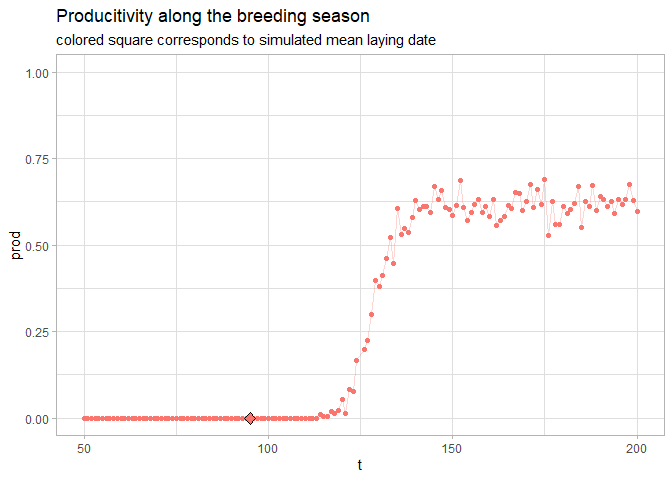
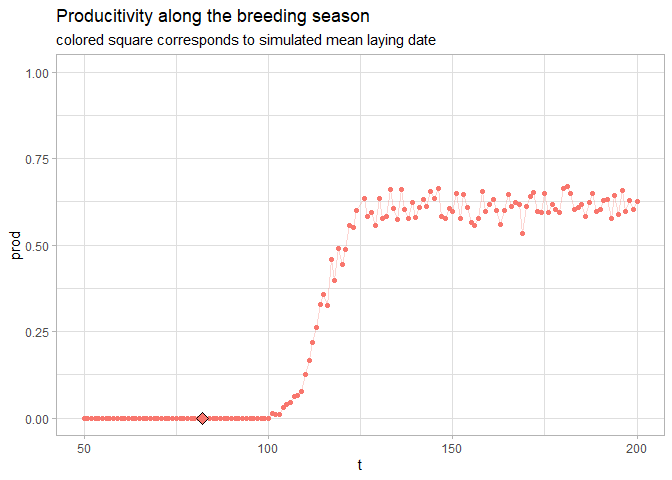
last 6 august

diff --git a/7_optimum.md b/7_optimum.md
@@ -184,15 +184,11 @@ fit_loss <- brm(
   control = list(adapt_delta = 0.9))
 ```
 
-    ## Compiling Stan program...
-
-    ## Start sampling
-
     ## 
     ## SAMPLING FOR MODEL 'anon_model' NOW (CHAIN 1).
     ## Chain 1: 
-    ## Chain 1: Gradient evaluation took 9e-05 seconds
-    ## Chain 1: 1000 transitions using 10 leapfrog steps per transition would take 0.9 seconds.
+    ## Chain 1: Gradient evaluation took 9.5e-05 seconds
+    ## Chain 1: 1000 transitions using 10 leapfrog steps per transition would take 0.95 seconds.
     ## Chain 1: Adjust your expectations accordingly!
     ## Chain 1: 
     ## Chain 1: 
@@ -209,15 +205,15 @@ fit_loss <- brm(
     ## Chain 1: Iteration: 1800 / 2000 [ 90%]  (Sampling)
     ## Chain 1: Iteration: 2000 / 2000 [100%]  (Sampling)
     ## Chain 1: 
-    ## Chain 1:  Elapsed Time: 0.352 seconds (Warm-up)
-    ## Chain 1:                0.142 seconds (Sampling)
-    ## Chain 1:                0.494 seconds (Total)
+    ## Chain 1:  Elapsed Time: 0.346 seconds (Warm-up)
+    ## Chain 1:                0.149 seconds (Sampling)
+    ## Chain 1:                0.495 seconds (Total)
     ## Chain 1: 
     ## 
     ## SAMPLING FOR MODEL 'anon_model' NOW (CHAIN 2).
     ## Chain 2: 
-    ## Chain 2: Gradient evaluation took 2.2e-05 seconds
-    ## Chain 2: 1000 transitions using 10 leapfrog steps per transition would take 0.22 seconds.
+    ## Chain 2: Gradient evaluation took 2.4e-05 seconds
+    ## Chain 2: 1000 transitions using 10 leapfrog steps per transition would take 0.24 seconds.
     ## Chain 2: Adjust your expectations accordingly!
     ## Chain 2: 
     ## Chain 2: 
@@ -234,15 +230,15 @@ fit_loss <- brm(
     ## Chain 2: Iteration: 1800 / 2000 [ 90%]  (Sampling)
     ## Chain 2: Iteration: 2000 / 2000 [100%]  (Sampling)
     ## Chain 2: 
-    ## Chain 2:  Elapsed Time: 0.443 seconds (Warm-up)
-    ## Chain 2:                0.154 seconds (Sampling)
-    ## Chain 2:                0.597 seconds (Total)
+    ## Chain 2:  Elapsed Time: 0.396 seconds (Warm-up)
+    ## Chain 2:                0.151 seconds (Sampling)
+    ## Chain 2:                0.547 seconds (Total)
     ## Chain 2: 
     ## 
     ## SAMPLING FOR MODEL 'anon_model' NOW (CHAIN 3).
     ## Chain 3: 
-    ## Chain 3: Gradient evaluation took 2.7e-05 seconds
-    ## Chain 3: 1000 transitions using 10 leapfrog steps per transition would take 0.27 seconds.
+    ## Chain 3: Gradient evaluation took 2.5e-05 seconds
+    ## Chain 3: 1000 transitions using 10 leapfrog steps per transition would take 0.25 seconds.
     ## Chain 3: Adjust your expectations accordingly!
     ## Chain 3: 
     ## Chain 3: 
@@ -259,15 +255,15 @@ fit_loss <- brm(
     ## Chain 3: Iteration: 1800 / 2000 [ 90%]  (Sampling)
     ## Chain 3: Iteration: 2000 / 2000 [100%]  (Sampling)
     ## Chain 3: 
-    ## Chain 3:  Elapsed Time: 0.446 seconds (Warm-up)
-    ## Chain 3:                0.146 seconds (Sampling)
-    ## Chain 3:                0.592 seconds (Total)
+    ## Chain 3:  Elapsed Time: 0.349 seconds (Warm-up)
+    ## Chain 3:                0.143 seconds (Sampling)
+    ## Chain 3:                0.492 seconds (Total)
     ## Chain 3: 
     ## 
     ## SAMPLING FOR MODEL 'anon_model' NOW (CHAIN 4).
     ## Chain 4: 
-    ## Chain 4: Gradient evaluation took 2.4e-05 seconds
-    ## Chain 4: 1000 transitions using 10 leapfrog steps per transition would take 0.24 seconds.
+    ## Chain 4: Gradient evaluation took 2.5e-05 seconds
+    ## Chain 4: 1000 transitions using 10 leapfrog steps per transition would take 0.25 seconds.
     ## Chain 4: Adjust your expectations accordingly!
     ## Chain 4: 
     ## Chain 4: 
@@ -284,9 +280,9 @@ fit_loss <- brm(
     ## Chain 4: Iteration: 1800 / 2000 [ 90%]  (Sampling)
     ## Chain 4: Iteration: 2000 / 2000 [100%]  (Sampling)
     ## Chain 4: 
-    ## Chain 4:  Elapsed Time: 0.486 seconds (Warm-up)
-    ## Chain 4:                0.136 seconds (Sampling)
-    ## Chain 4:                0.622 seconds (Total)
+    ## Chain 4:  Elapsed Time: 0.43 seconds (Warm-up)
+    ## Chain 4:                0.149 seconds (Sampling)
+    ## Chain 4:                0.579 seconds (Total)
     ## Chain 4:
 
 ``` r
@@ -305,13 +301,13 @@ fit_loss
     ## 
     ## Population-Level Effects: 
     ##                Estimate Est.Error l-95% CI u-95% CI Rhat Bulk_ESS Tail_ESS
-    ## pinf_Intercept     0.62      0.00     0.61     0.62 1.00     4360     3398
-    ## tm_Intercept     128.33      0.20   127.94   128.73 1.00     3572     2712
-    ## b_Intercept        3.30      0.17     2.97     3.63 1.00     3661     2786
+    ## pinf_Intercept     0.61      0.00     0.61     0.62 1.00     4290     3305
+    ## tm_Intercept     114.54      0.19   114.16   114.93 1.00     3226     2819
+    ## b_Intercept        3.62      0.16     3.31     3.95 1.00     3812     2684
     ## 
     ## Family Specific Parameters: 
     ##       Estimate Est.Error l-95% CI u-95% CI Rhat Bulk_ESS Tail_ESS
-    ## sigma     0.03      0.00     0.02     0.03 1.00     3690     2636
+    ## sigma     0.02      0.00     0.02     0.03 1.00     3818     2907
     ## 
     ## Draws were sampled using sampling(NUTS). For each parameter, Bulk_ESS
     ## and Tail_ESS are effective sample size measures, and Rhat is the potential
@@ -342,6 +338,9 @@ md_df <- md_df%>%
            b_tm_Intercept-40-(b_b_Intercept*log(1-b_pinf_Intercept)))
 ```
 
+The estimated mean laying date after selection is 77.9773096 while the
+simulated one (before selection) is 82.
+
 ### estimated variance (from luis doc)
 
 - simulated laying date variance = 49 (BEFORE SELECTION)
@@ -356,9 +355,12 @@ md_df <- md_df%>%
 print(mean(md_df$est_var_ld))
 ```
 
-    ## [1] 35.93829
+    ## [1] 43.18422
 
-### plot productivity data, with tm and estimated mean laying date
+The estimated variance of laying date after selection is 43.1842223
+while the simulated one (before selection) is 49.
+
+### plot productivity data, with before and after selection mean laying dates
 
 ``` r
 md_df%>%
